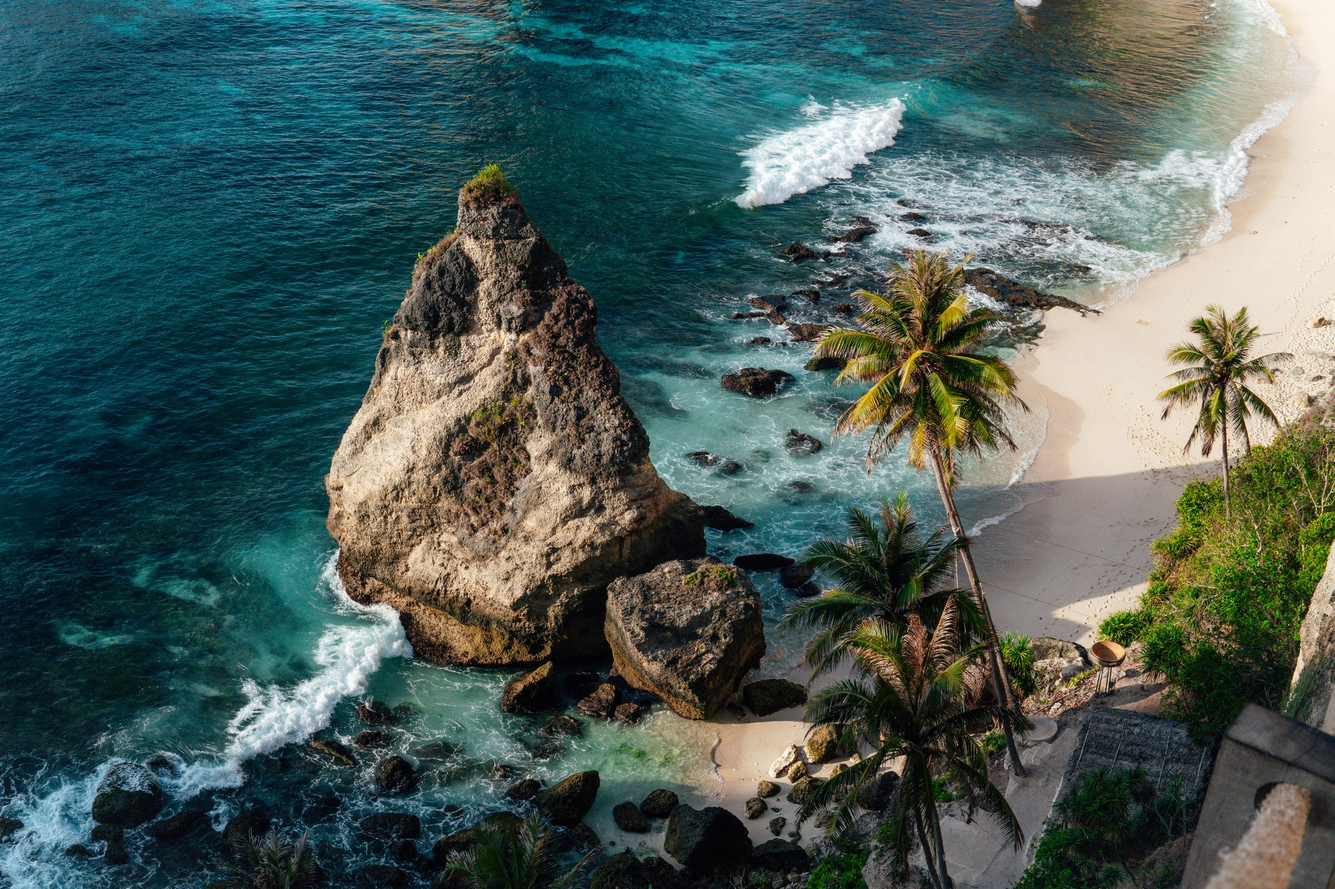
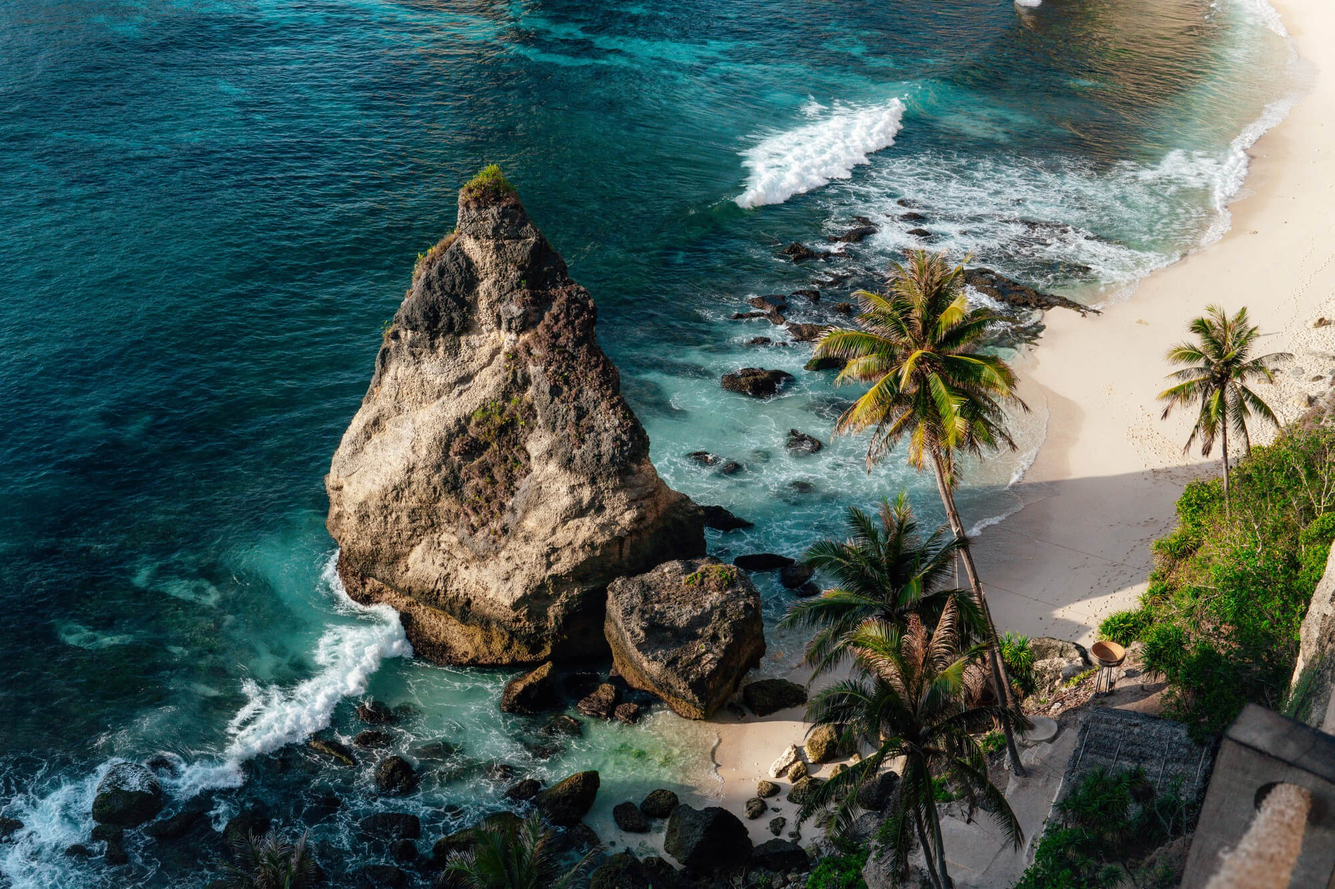
Mode

diff --git a/JS/main.js b/JS/main.js
@@ -35,19 +35,19 @@ let placesInfo = [
     name: "Thailand",
     description:
       "Thailand is a country of natural magic, a country of beauty, golden sands and blue waters.",
-    image: "IMGS/thiyland.jpg",
+    image: "IMGS/thiyland.webp",
   },
   {
     name: "Egypt",
     description:
       "Pack your bags and head to Egypt, where the pharaohs and ancient ancient buildings are.",
-    image: "IMGS/egypt.jpg",
+    image: "IMGS/egypt.webp",
   },
   {
     name: "Maldives",
     description:
       "Rest your eyes on the natural beauty of the Maldives amid the sand, seas and blue waters.",
-    image: "IMGS/maldives.jpg",
+    image: "IMGS/maldives.webp",
   },
   {
     name: "Italy",
